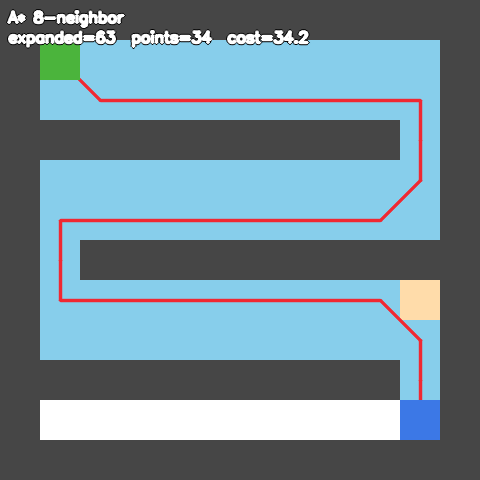
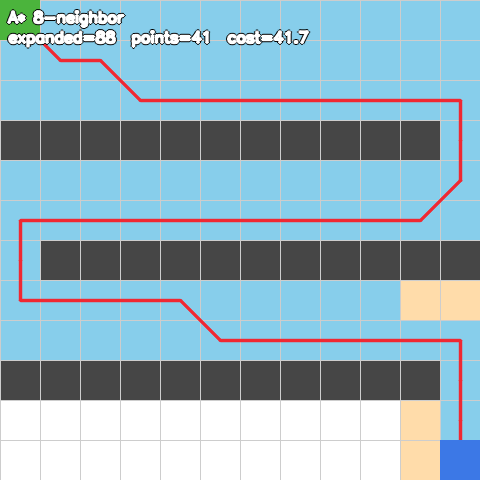
fix(task4): 去掉小地图外圈边墙（视觉上会被当成外边距），加网格线便于数格子

diff --git a/navigation_ws/task4/src/main.cpp b/navigation_ws/task4/src/main.cpp
@@ -59,6 +59,15 @@ cv::Mat render(
         }
     }
 
+    // 格子够大时画上网格线，方便直接数格子
+    if (cell >= 12) {
+        const cv::Scalar grid_color(205, 205, 205);
+        for (int x = 0; x <= map.width(); ++x)
+            cv::line(image, cv::Point{x * cell, 0}, cv::Point{x * cell, image.rows}, grid_color, 1);
+        for (int y = 0; y <= map.height(); ++y)
+            cv::line(image, cv::Point{0, y * cell}, cv::Point{image.cols, y * cell}, grid_color, 1);
+    }
+
     if (!result.path.empty()) {
         std::vector<cv::Point> centers;
         centers.reserve(result.path.size());
@@ -114,17 +123,15 @@ std::vector<MapCase> build_maps() {
     std::vector<MapCase> maps;
 
     GridMap tiny(5, 5);
-    tiny.fill_border(1);
-    tiny.set_occupied(GridPoint{2, 2});
-    maps.push_back(MapCase{"tiny_5x5", std::move(tiny), GridPoint{1, 1}, GridPoint{3, 3}});
+    tiny.fill_rect(GridPoint{2, 1}, 1, 3);
+    maps.push_back(MapCase{"tiny_5x5", std::move(tiny), GridPoint{0, 0}, GridPoint{4, 4}});
 
     GridMap regular(12, 12);
-    regular.fill_border(1);
-    regular.fill_rect(GridPoint{1, 3}, 9, 1);
-    regular.fill_rect(GridPoint{2, 6}, 9, 1);
-    regular.fill_rect(GridPoint{1, 9}, 9, 1);
+    regular.fill_rect(GridPoint{0, 3}, 11, 1);
+    regular.fill_rect(GridPoint{1, 6}, 11, 1);
+    regular.fill_rect(GridPoint{0, 9}, 11, 1);
     maps.push_back(
-        MapCase{"regular_12x12", std::move(regular), GridPoint{1, 1}, GridPoint{10, 10}});
+        MapCase{"regular_12x12", std::move(regular), GridPoint{0, 0}, GridPoint{11, 11}});
 
     GridMap rooms(60, 40);
     rooms.fill_border(1);

diff --git a/navigation_ws/task4.md b/navigation_ws/task4.md
@@ -22,10 +22,9 @@ neighbors.png       同一张图 4 邻域 vs 8 邻域对比
 改地图就改 `src/main.cpp` 的 `build_maps()`：
 
 ```cpp
-GridMap tiny(5, 5);              // 建一张 5×5 的图
-tiny.fill_border(1);             // 四周加 1 格厚边墙
-tiny.set_occupied({2, 2});       // (2,2) 放一个障碍
-maps.push_back({"tiny_5x5", std::move(tiny), {1, 1}, {3, 3}});
+GridMap tiny(5, 5);                        // 建一张 5×5 的图
+tiny.fill_rect(GridPoint{2, 1}, 1, 3);     // 从 (2,1) 开始画一道 1×3 的竖墙
+maps.push_back({"tiny_5x5", std::move(tiny), {0, 0}, {4, 4}});
 //               ↑名字                        ↑起点     ↑终点
 ```
 
@@ -243,7 +242,7 @@ SearchResult astar(const GridMap& map, GridPoint start, GridPoint goal, const AS
 } // namespace nav
 ```
 
-图上颜色对应：空地白、障碍深灰、已展开浅蓝、待办清单浅橙、最终路径红线、起点绿、终点蓝。
+图上颜色对应：空地白、障碍深灰、已展开浅蓝、待办清单浅橙、最终路径红线、起点绿、终点蓝。格子够大时（≥12 像素）会画上浅灰网格线，方便直接数格子。
 
 ## 三、结果
 
@@ -251,16 +250,16 @@ SearchResult astar(const GridMap& map, GridPoint start, GridPoint goal, const AS
 
 | 地图 | 尺寸 | 展开格数 | 路径点数 | 路径代价 |
 |---|---|---|---|---|
-| tiny_5x5 | 5×5 | 6 | 5 | 4.0 |
-| regular_12x12 | 12×12 | 63 | 34 | 34.2 |
+| tiny_5x5 | 5×5 | 12 | 8 | 7.4 |
+| regular_12x12 | 12×12 | 88 | 41 | 41.7 |
 | rooms | 60×40 | 559 | 60 | 71.8 |
 | random | 60×40 | 609 | 69 | 77.9 |
 
-**5×5 最小地图**：边界一圈墙，中心一个障碍。搜索只展开了 6 格就找到路，路径斜穿过去（代价 4.0 = 4 步斜走）。
+**5×5 最小地图**：中间竖着一道 1×3 的墙，起点在左上角、终点在右下角，路径得绕过去。展开 12 格，路径 8 个点、代价 7.4（1 步斜走 1.41 + 6 步直走 6）。
 
 ![5x5 地图](task4/output/tiny_5x5.png)
 
-**12×12 规则地图**：三道错开的墙，右边留口、左边留口、右边留口，所以路径是个 S 形。展开 63 格。
+**12×12 规则地图**：三道墙错开（右边留口、左边留口、右边留口），所以路径是个 S 形。展开 88 格。
 
 ![12x12 地图](task4/output/regular_12x12.png)
 
